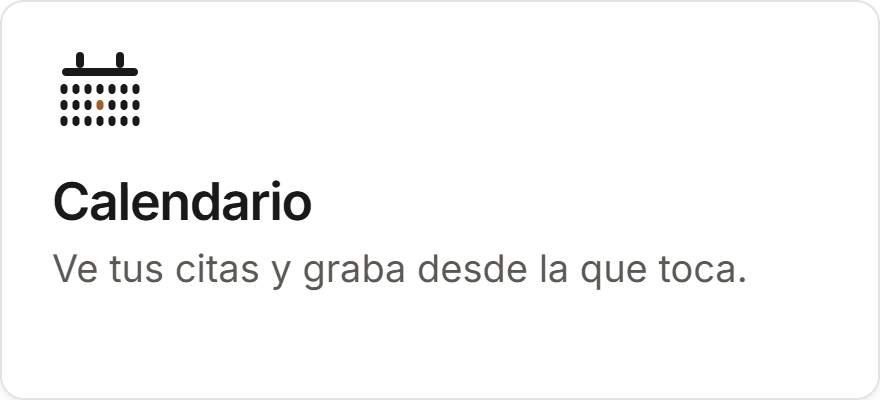
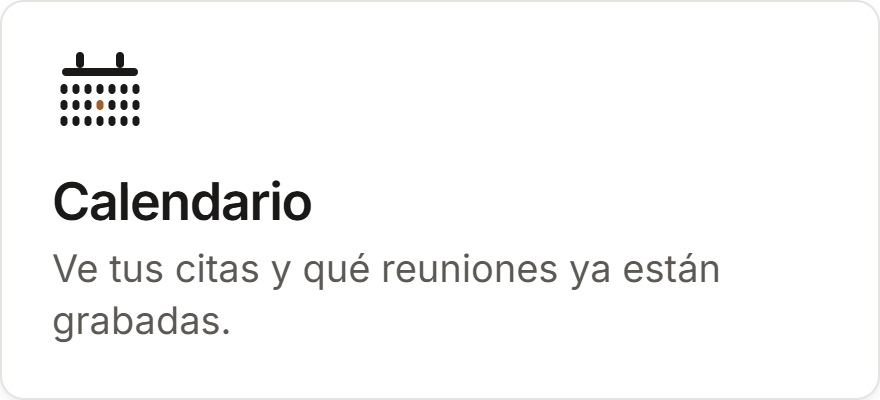
README: requisitos en dos columnas y textos de calendario y móvil ajustados

Changed region(s): [[0.3375, 0.63, 0.8591, 0.72], [0.0614, 0.78, 0.2761, 0.87]]

diff --git a/README.md b/README.md
@@ -30,9 +30,9 @@
 
 <p align="center"><picture><source media="(prefers-color-scheme: dark)" srcset="assets/graficos/f-pantalla-oscuro.webp"><img src="assets/graficos/f-pantalla-claro.webp" width="440" alt="Grabar la pantalla: vídeo con zooms, subtítulos y cortes"></picture></p>
 
-<p align="center"><picture><source media="(prefers-color-scheme: dark)" srcset="assets/graficos/f-calendario-oscuro.webp"><img src="assets/graficos/f-calendario-claro.webp" width="440" alt="Calendario: ve tus citas y graba desde la que toca"></picture></p>
+<p align="center"><picture><source media="(prefers-color-scheme: dark)" srcset="assets/graficos/f-calendario-oscuro.webp"><img src="assets/graficos/f-calendario-claro.webp" width="440" alt="Calendario: ve tus citas y qué reuniones ya están grabadas"></picture></p>
 
-<p align="center"><picture><source media="(prefers-color-scheme: dark)" srcset="assets/graficos/f-movil-oscuro.webp"><img src="assets/graficos/f-movil-claro.webp" width="440" alt="Móvil: graba con la pantalla apagada y se une al PC"></picture></p>
+<p align="center"><picture><source media="(prefers-color-scheme: dark)" srcset="assets/graficos/f-movil-oscuro.webp"><img src="assets/graficos/f-movil-claro.webp" width="440" alt="Móvil: graba con la pantalla apagada y se empareja con el PC"></picture></p>
 
 <p align="center"><picture><source media="(prefers-color-scheme: dark)" srcset="assets/graficos/f-privacidad-oscuro.webp"><img src="assets/graficos/f-privacidad-claro.webp" width="440" alt="Privacidad: tapa DNI, IBAN y correos antes de compartir"></picture></p>
 
@@ -66,11 +66,10 @@
 
 ## Requisitos
 
-|  | Windows | Android |
-|:--|:--|:--|
-| Sistema | 10 (21H2 o posterior) u 11, 64 bits | 7 o posterior, 64 bits |
-| Disco | 5,3 GB, o 9,2 GB con una RTX | Modelo de voz: 207 o 670 MB |
-| Gráfica | NVIDIA con CUDA, opcional | |
+| Plataforma | Requisitos |
+|:--|:--|
+| **Windows** | 10 (21H2 o posterior) u 11, de 64 bits. En disco, 5,3 GB, o 9,2 GB con una RTX, sin los modelos de resumen y pantalla. NVIDIA opcional; sin ella, el procesador. |
+| **Android** | 7 o posterior, de 64 bits. El modelo de voz ocupa 207 MB o 670 MB, según el que elijas. |
 
 Este repositorio solo guarda los instaladores.
 
@@ -94,7 +93,7 @@ GitHub muestra la huella SHA-256 de cada fichero junto a su enlace (`sha256:…`
 certutil -hashfile Acta_0.10.1_x64-setup.exe SHA256
 ```
 
-En Android, la huella del APK y la del certificado de firma van en las notas de cada versión. El certificado del móvil es el mismo desde la 0.2.6, así que la 0.4.0 se instala encima sin desinstalar.
+En Android, la huella del APK y la del certificado de firma van en las notas de cada versión. El certificado del móvil es el mismo desde la 0.2.6, así que la 0.4.0 se instala encima sin desinstalar y sin perder las actas.
 
 </details>
 
